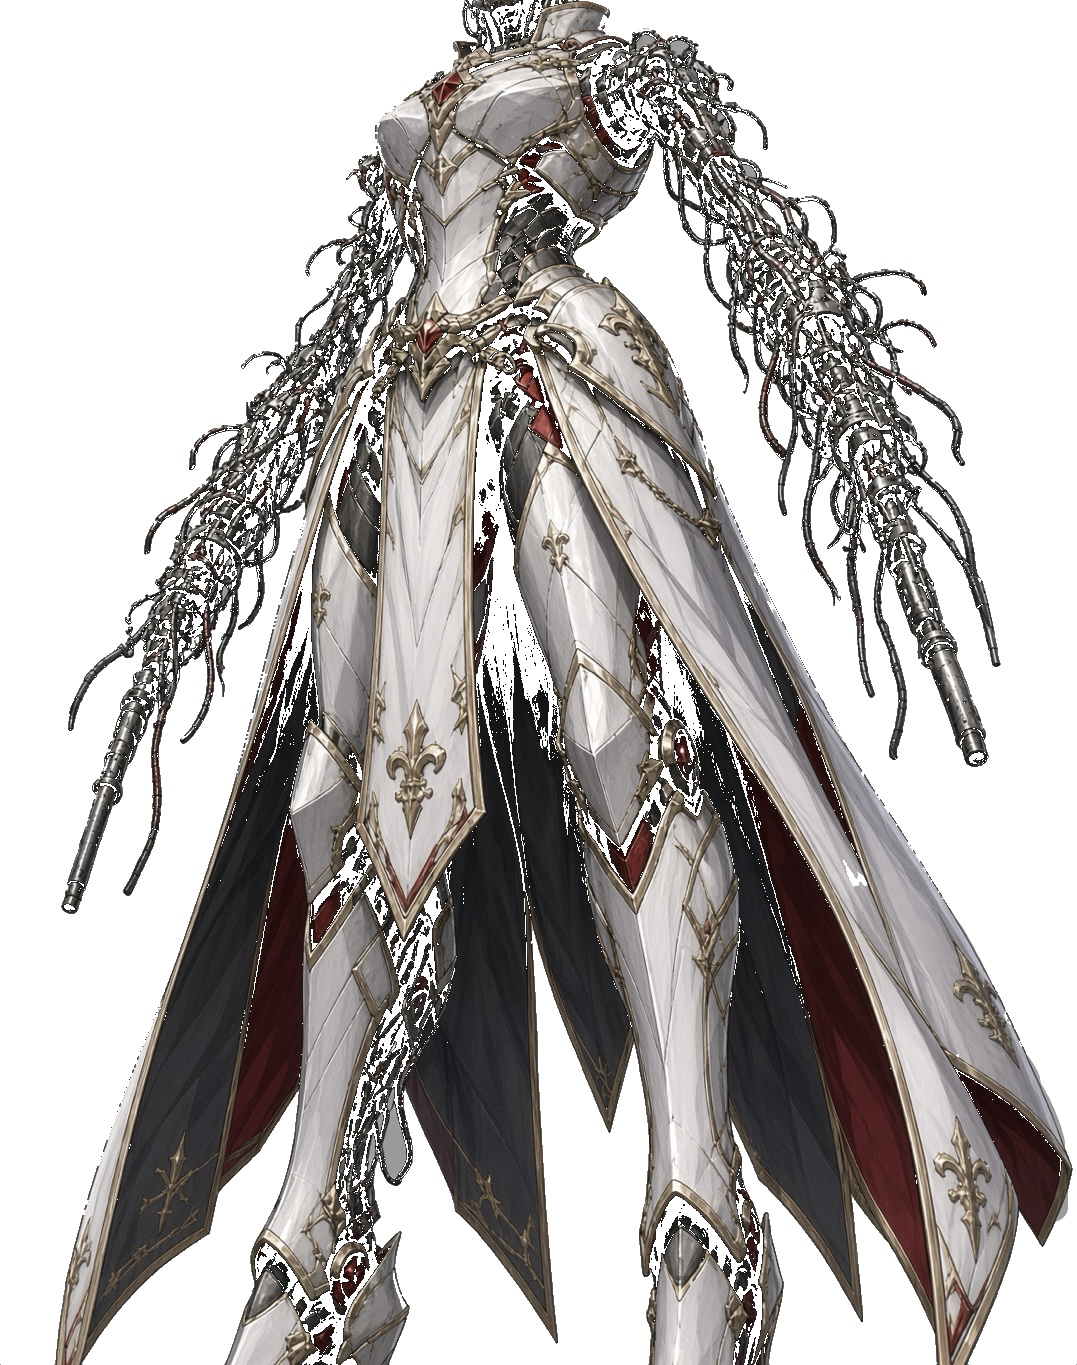
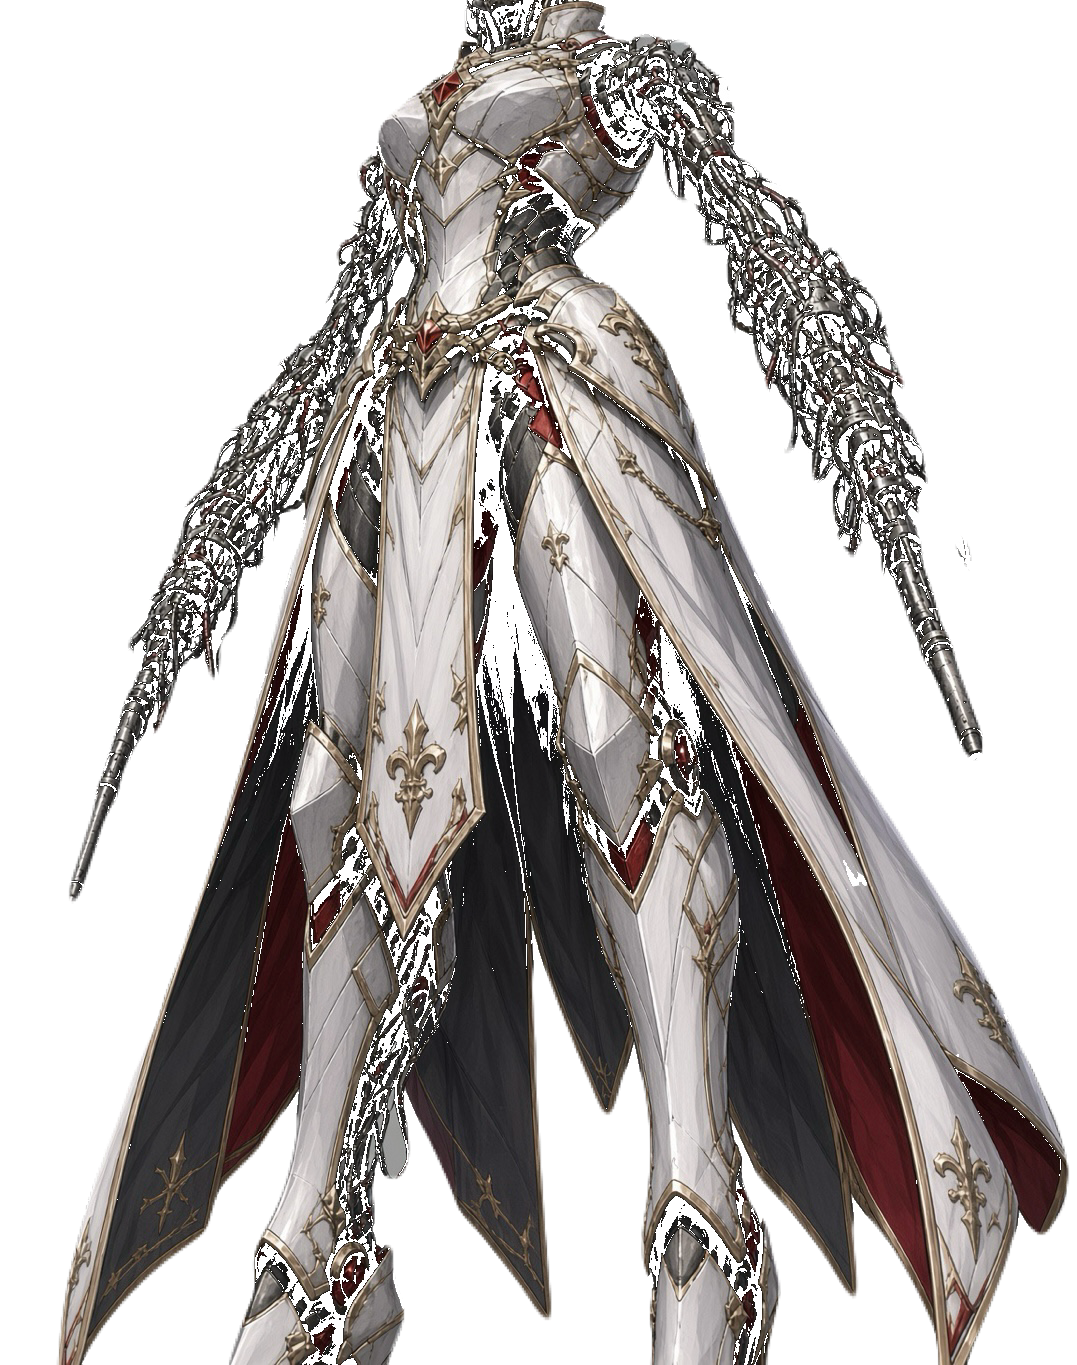
L8 torso: new crop, chest-only bricks, drift, more dust, no lasers/debris

diff --git a/game.js b/game.js
@@ -244,8 +244,8 @@
   let l8HeadStartCount = 0;
   let l8TorsoStartCount = 0;
   let l8HeadFrac = 0.132; // solo corona+cara (antes de hombros/pecho) // crown+face (~top 24%) // crown+face ≈ top 15.5% of queen sprite
-  let l8ChestV0 = 0.14; // torso armor UV band (fraction of sprite height)
-  let l8ChestV1 = 0.45;
+  let l8ChestV0 = 0.22; // pecho+torso (sin falda)
+  let l8ChestV1 = 0.52;
   let l8Lasers = []; // {x0,y0,x1,y1,t,dur,w} brief diagonal (head) OR bounce beams (torso)
   let l8LaserCd = 0;
   let l8LasersDone = false;
@@ -254,6 +254,9 @@
   let l8RooftopGroundY = 0; // playfield ground for queen feet / bg (stable across brick spawns)
   let l8TorsoQuakeT = 0;
   let l8ExtraDust = []; // floating dust during torso earthquake
+  let l8TorsoDriftX = 0;
+  let l8TorsoDriftTarget = 0;
+  let l8TorsoDriftTimer = 0;
 
   function size() {
     return {
@@ -2172,6 +2175,9 @@
     l8HeadOriginY = 0;
     l8TorsoQuakeT = 0;
     l8ExtraDust = [];
+    l8TorsoDriftX = 0;
+    l8TorsoDriftTarget = 0;
+    l8TorsoDriftTimer = 0;
     window.__l8LaserImmuneUntil = 0;
   }
 
@@ -2216,9 +2222,14 @@
     }
     // Subtle queen sway after intro: slow sine DX left-right (feet stay planted)
     let px = 0, py = 0;
-    if (!l8Intro && (l8Phase === 'hands' || l8Phase === 'head' || l8Phase === 'torso' || l8Phase === 'idle')) {
-      px = Math.sin(bgT * 0.22) * (torsoMode ? 10 : 14);
-      py = Math.cos(bgT * 0.18) * (torsoMode ? 1.2 : 1.8);
+    if (!l8Intro && (l8Phase === 'hands' || l8Phase === 'head' || l8Phase === 'idle')) {
+      px = Math.sin(bgT * 0.22) * 14;
+      py = Math.cos(bgT * 0.18) * 1.8;
+    }
+    if (torsoMode) {
+      // Movimiento lento al azar de un lado a otro
+      px = l8TorsoDriftX;
+      py = Math.cos(bgT * 0.15) * 2.2;
     }
     return { dx: dx + px, dy: dy + py, dw, dh, torso: torsoMode };
   }
@@ -2606,7 +2617,7 @@
         l8Fade = null;
         if (paddle && ball) stickBallToPaddle();
         hint.classList.add('show');
-        hint.innerHTML = '<strong>¡Su torso!</strong><span>Rompe la armadura · esquiva los láseres</span>';
+        hint.innerHTML = '<strong>¡Su torso!</strong><span>Rompe la armadura del pecho</span>';
         clearTimeout(window.__hintHide);
         window.__hintHide = setTimeout(() => {
           if (launched && !gameOver && !paused) hint.classList.remove('show');
@@ -2671,20 +2682,20 @@
     if (l8BgTorsoImg) bgImg = l8BgTorsoImg;
     // Dense earthquake dust
     bgDust = [];
-    for (let i = 0; i < 70; i++) {
+    for (let i = 0; i < 110; i++) {
       bgDust.push({
         x: Math.random() * W,
         y: Math.random() * H,
-        r: 0.6 + Math.random() * 2.4,
-        vx: 0.12 + Math.random() * 0.45,
-        vy: (Math.random() - 0.5) * 0.22,
-        a: 0.12 + Math.random() * 0.28,
+        r: 0.7 + Math.random() * 3.0,
+        vx: 0.1 + Math.random() * 0.55,
+        vy: (Math.random() - 0.5) * 0.28,
+        a: 0.14 + Math.random() * 0.34,
       });
     }
     bumpCam(fromFade ? 4 : 10);
     if (!fromFade) {
       hint.classList.add('show');
-      hint.innerHTML = '<strong>¡Su torso!</strong><span>Rompe la armadura · esquiva los láseres</span>';
+      hint.innerHTML = '<strong>¡Su torso!</strong><span>Rompe la armadura del pecho</span>';
       clearTimeout(window.__hintHide);
       window.__hintHide = setTimeout(() => {
         if (launched && !gameOver && !paused) hint.classList.remove('show');
@@ -2695,15 +2706,17 @@
 
   /** Prefer light / white / gold chest armor pixels; skip dark cable arms. */
   function avgCellChestArmor(ix, iy, cellSize) {
+    // Solo franja central (pecho/torso), no brazos de cables a los lados
+    const u = ((ix + 0.5) * cellSize) / Math.max(1, imgW);
+    if (u < 0.28 || u > 0.72) return null;
     const c = avgCell(ix, iy, cellSize);
     if (!c) return null;
     const luma = 0.299 * c.r + 0.587 * c.g + 0.114 * c.b;
     const isGoldish = (c.r > 145 && c.g > 105 && c.b < c.r * 0.92 && (c.r + c.g) > c.b * 2.1);
-    const isLight = luma >= 118;
-    const isWhiteMetal = luma >= 150 && Math.abs(c.r - c.g) < 40 && Math.abs(c.g - c.b) < 45;
+    const isLight = luma >= 125;
+    const isWhiteMetal = luma >= 155 && Math.abs(c.r - c.g) < 40 && Math.abs(c.g - c.b) < 45;
     if (!(isLight || isGoldish || isWhiteMetal)) return null;
-    // Extra reject very dark / cold cable tones
-    if (luma < 100 && !isGoldish) return null;
+    if (luma < 110 && !isGoldish) return null;
     return c;
   }
 
@@ -2851,8 +2864,9 @@
       applyStructure(structures[0]);
       groundY = savedGround;
       syncL8TorsoToQueen();
-      // Start dual bouncing eye lasers
-      initL8TorsoBounceLasers();
+      // Láseres de ojos desactivados por ahora (afinar pecho primero)
+      l8Lasers = [];
+      l8LasersDone = true;
       updateHud();
       bumpCam(4.5);
       console.log('[l8-torso] bricks', bricks.length);
@@ -3126,31 +3140,10 @@
       return;
     }
 
-    // TORSO: two permanent bouncing beams from eyes
-    if (l8Phase !== 'torso') return;
-    if (!l8Lasers.length) initL8TorsoBounceLasers();
-
-    for (const L of l8Lasers) {
-      if (!L.bounce) continue;
-      if (L.eyeIdx != null) {
-        const e = l8EyeWorldPos(L.eyeIdx);
-        L.x0 = e.x; L.y0 = e.y;
-      }
-      // Slight random drift of direction over time
-      L.dx += (Math.random() - 0.5) * 0.55 * dt;
-      L.dy += (Math.random() - 0.5) * 0.55 * dt;
-      const sp = Math.hypot(L.dx, L.dy) || 1;
-      L.dx /= sp; L.dy /= sp;
-      // Prefer somewhat downward so beams sweep the playfield
-      if (L.dy < 0.15) L.dy += 0.35 * dt;
-      rebuildL8BounceRay(L, 6);
-      L.t += dt;
-      if (
-        !paused && !gameOver && !won && launched &&
-        l8LaserHitsPaddle(L)
-      ) {
-        damageFromL8EyeLaser(dt, true);
-      }
+    // TORSO: láseres desactivados temporalmente
+    if (l8Phase === 'torso') {
+      l8Lasers = [];
+      return;
     }
   }
 
@@ -3409,14 +3402,15 @@
     const step = dt * 60;
     const debrisActive = !paused && !gameOver && !won && !outro && l8Phase !== 'idle';
     // Moderate spawn rate — rains during intro + hands (even if ball on paddle)
-    if ((l8Phase === 'hands' || l8Phase === 'head' || l8Phase === 'torso' || l8Intro || l8Phase === 'intro') && debrisActive) {
+    // En fase pecho/torso: sin escombros (solo polvo / explosiones)
+    if (l8Phase === 'torso') {
+      l8Debris = [];
+    } else if ((l8Phase === 'hands' || l8Phase === 'head' || l8Intro || l8Phase === 'intro') && debrisActive) {
       l8DebrisTimer -= dt;
       if (l8DebrisTimer <= 0) {
         spawnL8Debris();
-        if (Math.random() < (l8Phase === 'torso' ? 0.45 : 0.28)) spawnL8Debris();
-        if (l8Phase === 'torso' && Math.random() < 0.35) spawnL8Debris();
-        l8DebrisTimer = (l8Intro ? 1.2 : (l8Phase === 'torso' ? 0.45 : 0.85))
-          + Math.random() * (l8Intro ? 1.4 : (l8Phase === 'torso' ? 0.7 : 1.35));
+        if (Math.random() < 0.28) spawnL8Debris();
+        l8DebrisTimer = (l8Intro ? 1.2 : 0.85) + Math.random() * (l8Intro ? 1.4 : 1.35);
       }
     }
     // Debris passes through hands — only ball + paddle. Floor = bottom of screen.
@@ -4318,6 +4312,18 @@
     const hx = br.x + br.w / 2, hy = br.y + br.h / 2;
     spawnDust(hx, hy, br.color, br.hp <= 1 ? 14 : 8);
     spawnMetalSparks(hx, hy); // chispas metal-metal
+    // Fase pecho: explosiones al azar al golpear armadura
+    if (level().queenBoss && l8Phase === 'torso' && Math.random() < 0.38) {
+      bumpCam(2.8 + Math.random() * 3.2);
+      if (typeof spawnShopBombBlast === 'function') {
+        spawnShopBombBlast(hx, hy);
+        if (Math.random() < 0.45) spawnShopBombBlast(hx + (Math.random() - 0.5) * 28, hy - 10 - Math.random() * 20);
+      } else {
+        spawnDust(hx, hy, 'rgb(255,120,40)', 36, { spread: 2.4, up: 3.2, big: true, long: true, jitter: 18 });
+        spawnDust(hx, hy, 'rgb(60,55,50)', 28, { ground: true, hemisphere: true, spread: 2.0, up: 2.4, big: true, long: true, jitter: 22 });
+      }
+      spawnMetalSparks(hx, hy);
+    }
     br.hp -= ballDamage() * (level().brickDamageMult || 1);
     score += 1; // $1 por golpe
     if (br.hp <= 0) {
@@ -5294,21 +5300,31 @@
       updateL8EyeLasers(dt);
     }
     if (level().queenBoss && l8Phase === 'torso' && !paused && !won && !gameOver) {
-      // Earthquake: periodic cam bumps + extra floating dust
+      // Drift lento al azar (lado a lado)
+      l8TorsoDriftTimer -= dt;
+      if (l8TorsoDriftTimer <= 0) {
+        l8TorsoDriftTarget = (Math.random() * 2 - 1) * Math.min(56, W * 0.12);
+        l8TorsoDriftTimer = 1.8 + Math.random() * 2.8;
+      }
+      l8TorsoDriftX += (l8TorsoDriftTarget - l8TorsoDriftX) * Math.min(1, dt * 0.55);
+
+      // Earthquake + MÁS polvo
       l8TorsoQuakeT -= dt;
       if (l8TorsoQuakeT <= 0) {
-        bumpCam(2.2 + Math.random() * 3.5);
-        l8TorsoQuakeT = 0.18 + Math.random() * 0.35;
+        bumpCam(2.4 + Math.random() * 3.8);
+        l8TorsoQuakeT = 0.14 + Math.random() * 0.28;
       }
-      if (Math.random() < dt * 8) {
+      const dustBurst = Math.max(2, (dt * 22) | 0);
+      for (let k = 0; k < dustBurst; k++) {
+        if (Math.random() > 0.65) continue;
         l8ExtraDust.push({
           x: Math.random() * W,
-          y: H * (0.15 + Math.random() * 0.75),
-          r: 0.8 + Math.random() * 3.2,
-          vx: (Math.random() - 0.5) * 1.2,
-          vy: -0.2 - Math.random() * 0.8,
-          a: 0.25 + Math.random() * 0.45,
-          life: 0.8 + Math.random() * 1.4,
+          y: H * (0.08 + Math.random() * 0.85),
+          r: 0.7 + Math.random() * 4.2,
+          vx: (Math.random() - 0.5) * 1.6,
+          vy: -0.15 - Math.random() * 1.1,
+          a: 0.22 + Math.random() * 0.5,
+          life: 0.9 + Math.random() * 1.8,
         });
       }
       for (let i = l8ExtraDust.length - 1; i >= 0; i--) {
@@ -5316,11 +5332,11 @@
         p.life -= dt;
         p.x += p.vx * dt * 60;
         p.y += p.vy * dt * 60;
-        p.vy += 0.01 * dt * 60;
-        p.a *= 0.992;
+        p.vy += 0.012 * dt * 60;
+        p.a *= 0.991;
         if (p.life <= 0 || p.a < 0.02) l8ExtraDust.splice(i, 1);
       }
-      if (l8ExtraDust.length > 120) l8ExtraDust.splice(0, l8ExtraDust.length - 120);
+      if (l8ExtraDust.length > 260) l8ExtraDust.splice(0, l8ExtraDust.length - 260);
     }
     if (l6Transit) {
       updateBg(dt);

diff --git a/index.html b/index.html
@@ -365,6 +365,6 @@
       </div>
     </div>
   </div>
-  <script src="game.js?v=54"></script>
+  <script src="game.js?v=55"></script>
 </body>
 </html>
